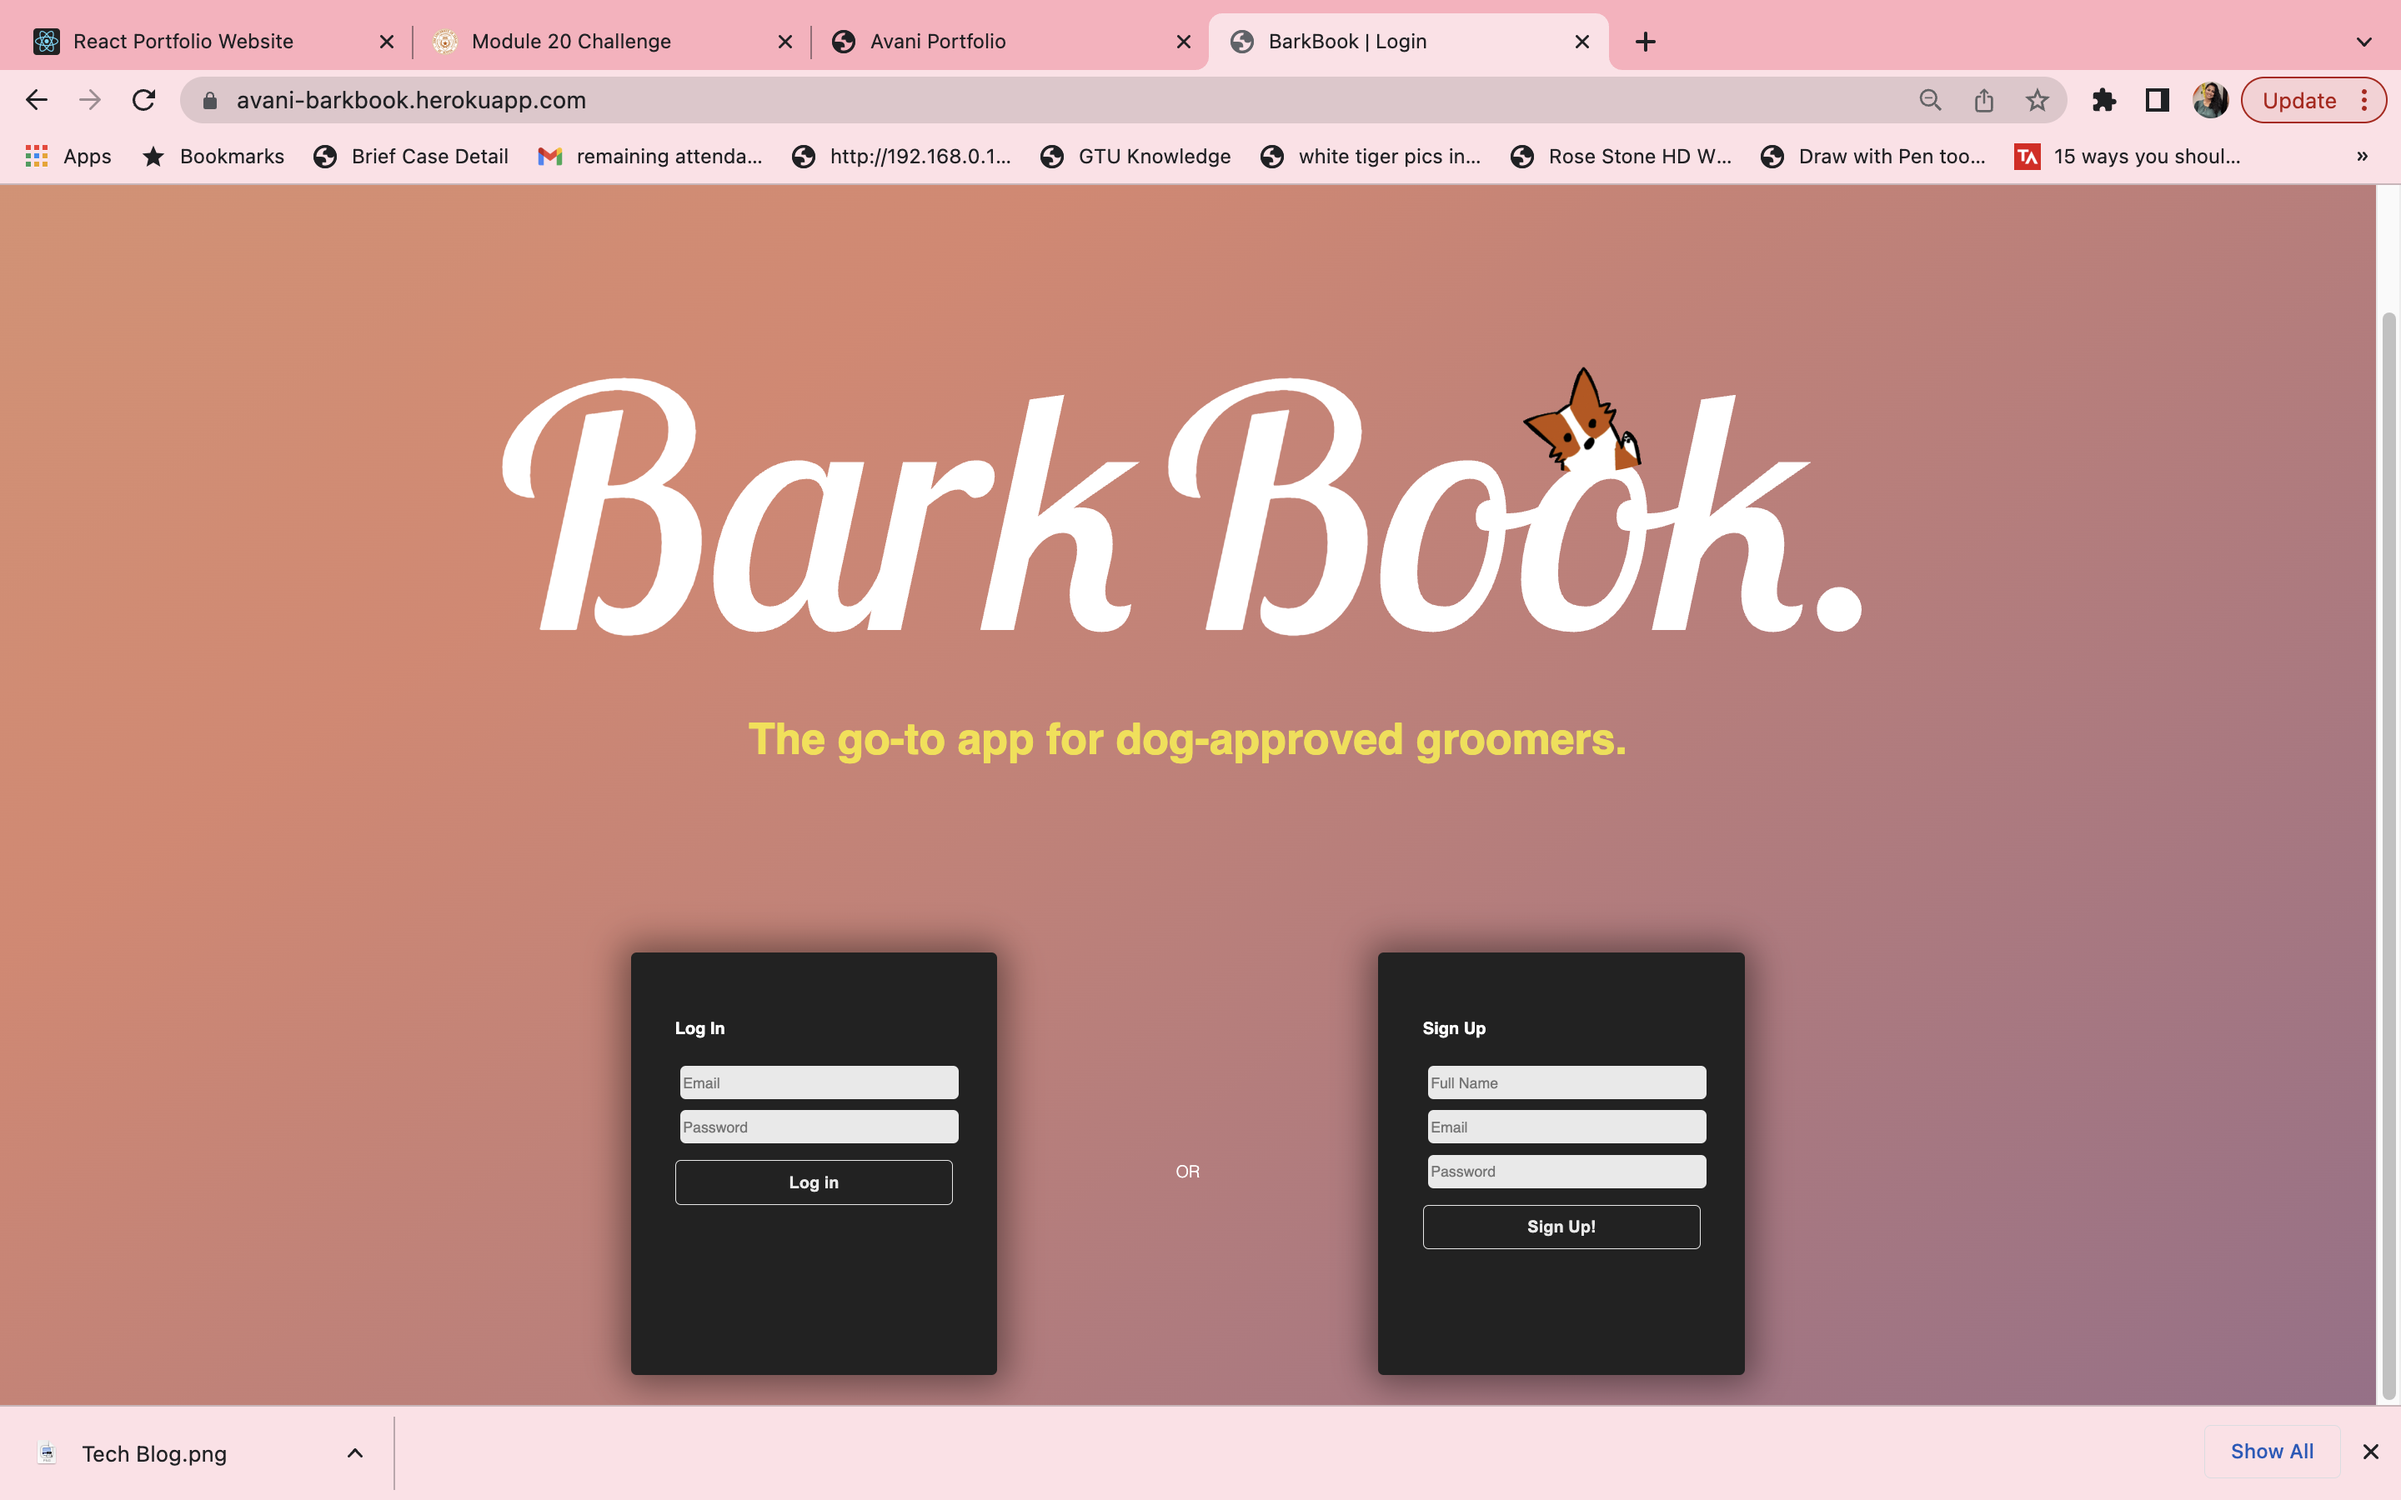
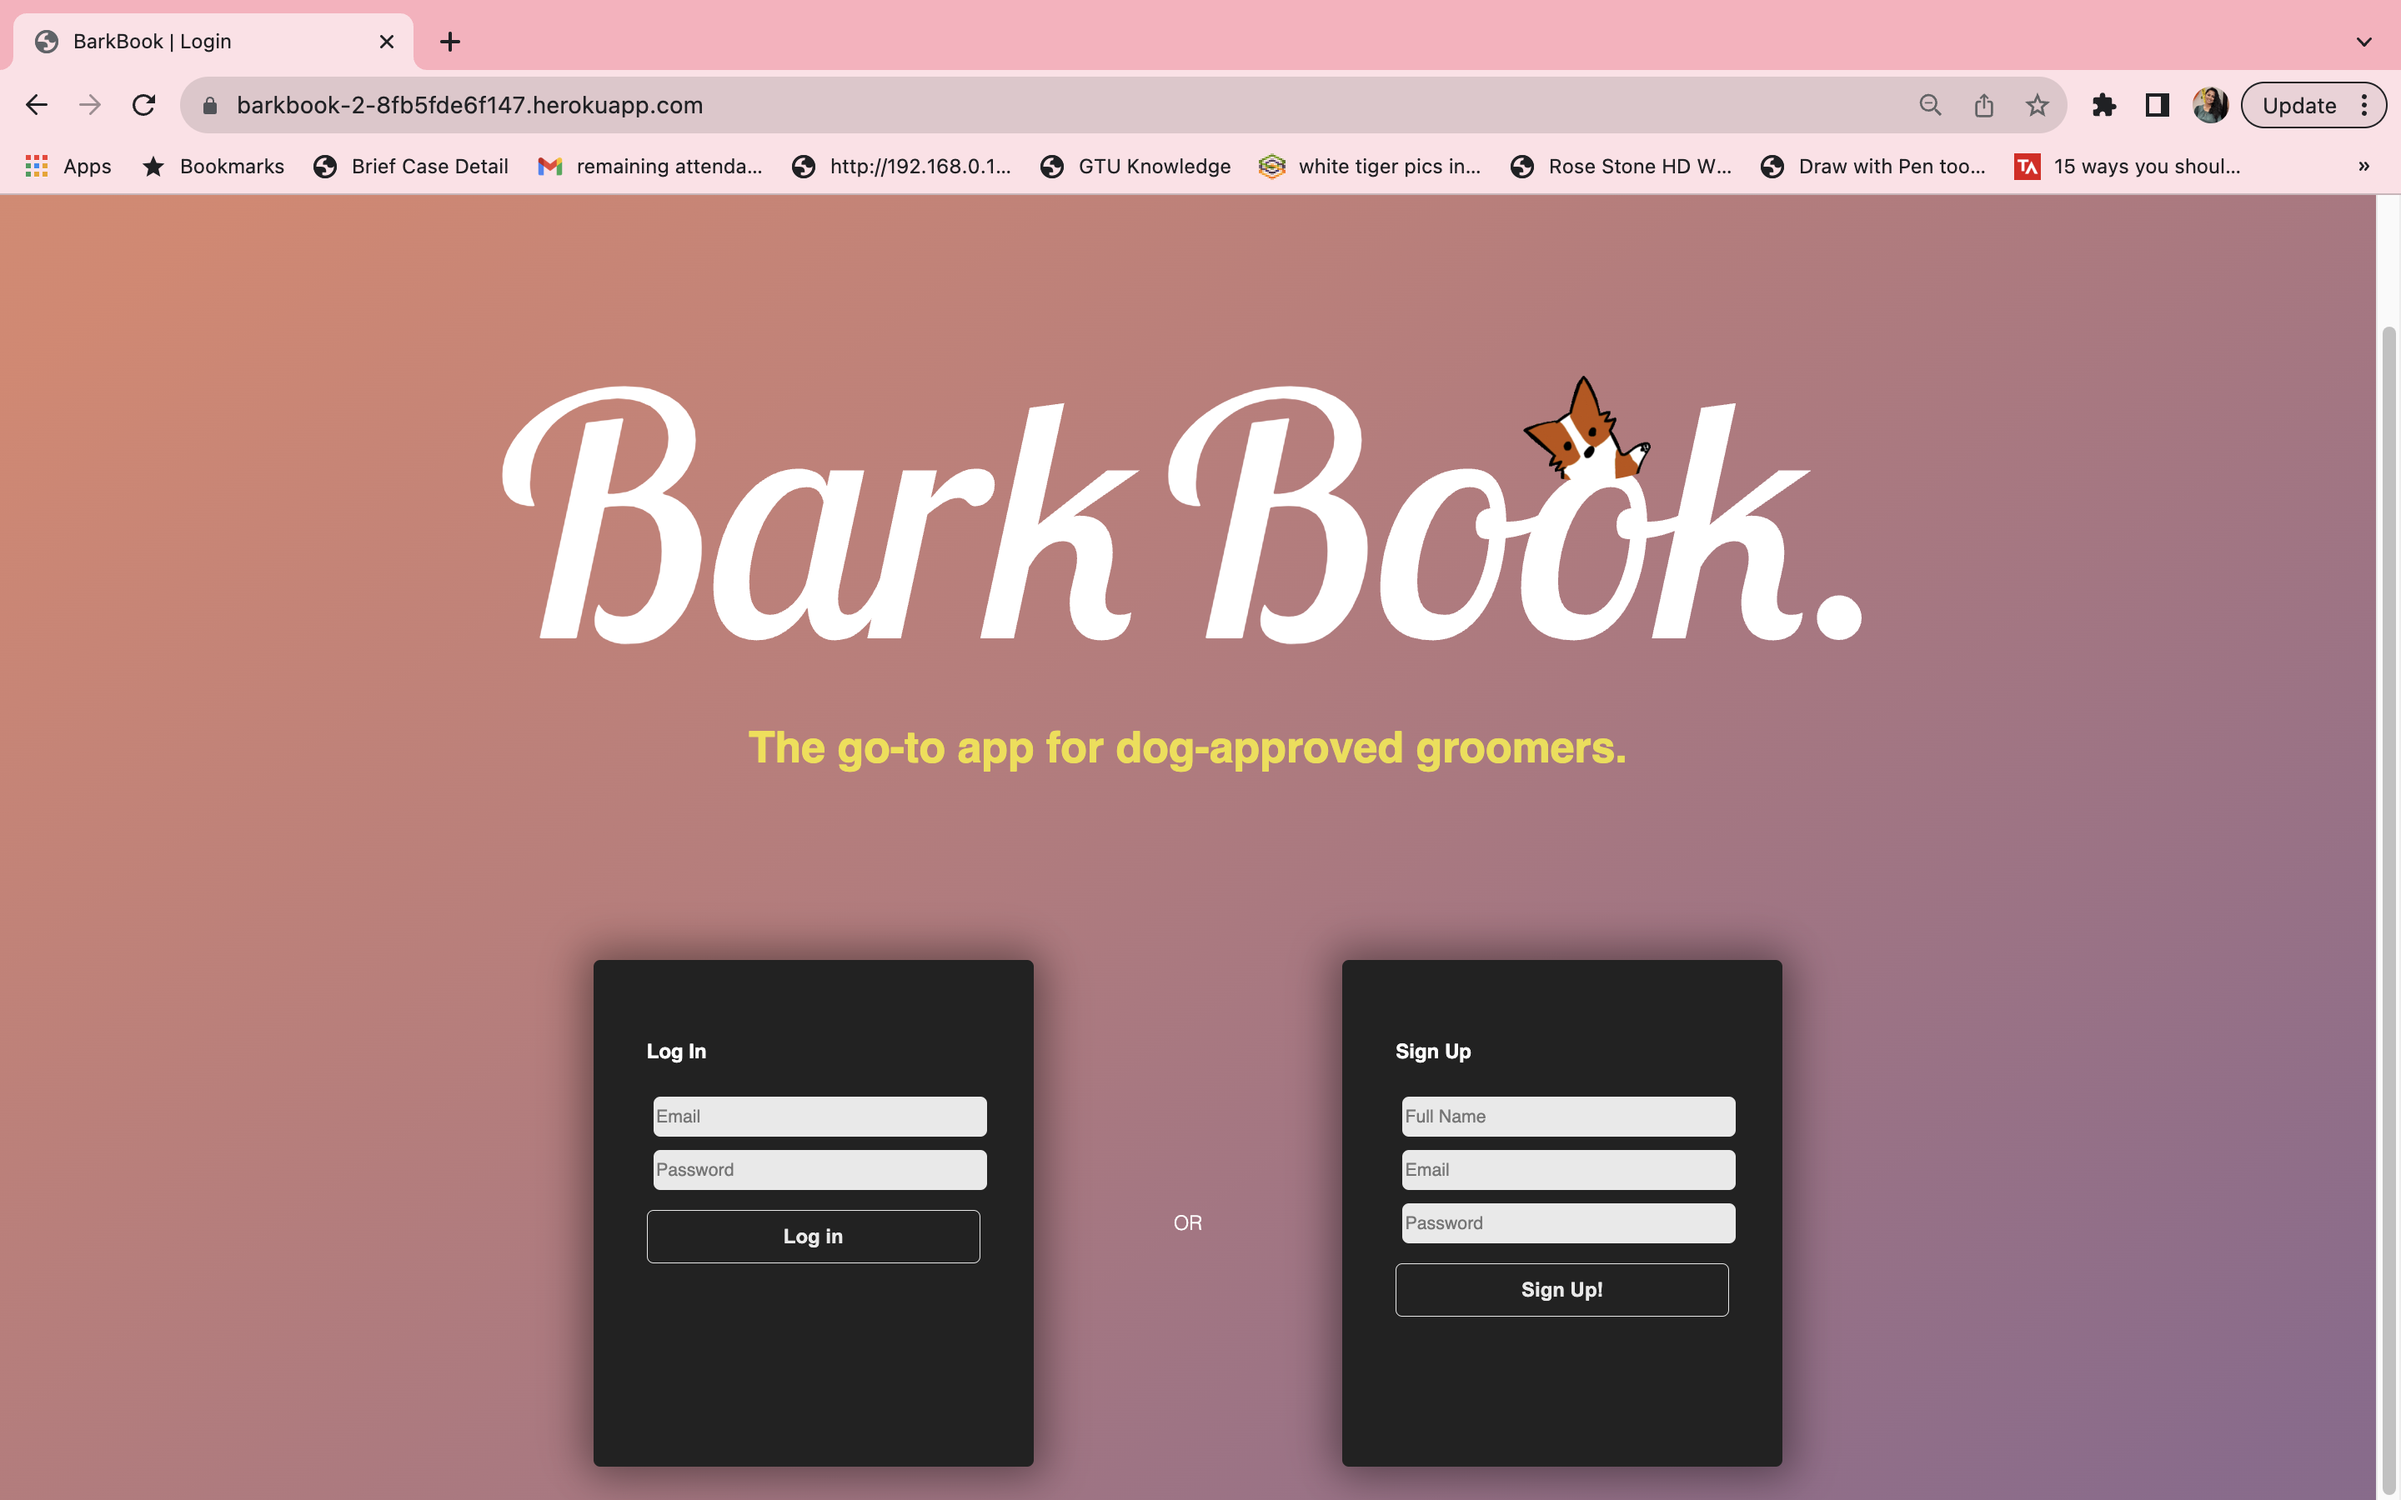
Added latest projects

diff --git a/src/components/Portfolio/index.js b/src/components/Portfolio/index.js
@@ -3,12 +3,11 @@ import React from "react";
 // import project index file
 import Project from "../Project/index";
 // import all images from Assets images
-import barkBook from "../../assets/images/BarkBook.png";
-import dayTime from "../../assets/images/dayTime.png";
-import weather from "../../assets/images/Weather.png";
+import BarkBook from "../../assets/images/BarkBook.png";
+import BookStoreGQL from "../../assets/images/BookStoreGQL";
 import Parkitivities from "../../assets/images/Parkitivities.png";
 import ReactPortfolio from "../../assets/images/AboutMe.png";
-import AvaniPortfolio from "../../assets/images/AvaniPortfolio.png";
+import Ecommerceshop from "../../assets/images/Ecommerceshop.png";
 import DreamLand from "../../assets/images/DreamLand.png";
 
 //  Created seed for projects in data array
@@ -19,28 +18,29 @@ const data = [
     image: DreamLand,
     github: "https://github.com/avanijadeja/DreamLand-WonderLand",
     deploy: "https://arcane-spire-25027-6f1b8d854313.herokuapp.com/",
-    description: "Dreamland wonderland is e-commerce website for organic Pajamas designed for Baby, kids and adults.",
-    topics: "MERN State Redux",
+    description:
+      "Dreamland wonderland is e-commerce website for organic Pajamas designed for Baby, kids and adults.",
+    topics: "MERN,State,Redux",
   },
   {
     id: 2,
-    name: "Work Day Scheduler",
-    image: dayTime,
-    github: "https://github.com/avanijadeja/work-day-scheduler",
-    deploy: "https://avanijadeja.github.io/work-day-scheduler/",
+    name: "Bark Book",
+    image: BarkBook,
+    github: "https://github.com/avanijadeja/BarkBook",
+    deploy: "https://barkbook-2-8fb5fde6f147.herokuapp.com/",
     description:
-      "Work Day Scheduler is a Calendar application that allows a user to save events for each hour of the day.",
-    topics: "Javascript Bootstrap",
+      "BarkBook is a application in which user can see all groomers and add comments on groomer about their pet's service.",
+    topics: "Express,Sequelize",
   },
   {
     id: 3,
-    name: "Weather Dashboard",
-    image: weather,
-    github: "https://github.com/avanijadeja/weather-dashboard",
-    deploy: "https://avanijadeja.github.io/weather-dashboard/",
+    name: "BookStore GraphQL",
+    image: BookStoreGQL,
+    github: "https://github.com/avanijadeja/BookStoreGQL",
+    deploy: "https://frozen-mountain-60263-d07f2d628798.herokuapp.com/",
     description:
-      "weather dashboard website shows weather outlook for multiple cities.",
-    topics: "Javascript Bootstrap",
+      "Book Store GQL search for new books to read, keep a list of books to purchase and delete books from purchase list using graphQL.",
+    topics: "MongoDB,Graphql",
   },
   {
     id: 4,
@@ -54,12 +54,12 @@ const data = [
   },
   {
     id: 5,
-    name: "Portfolio",
-    image: AvaniPortfolio,
-    github: "https://github.com/avanijadeja/Avani_Portfolio",
-    deploy: "https://avanijadeja.github.io/Avani_Portfolio/",
-    description: "Avani's Portfolio",
-    topics: "Javascript Bootstrap",
+    name: "E-commerce-shop",
+    image: Ecommerceshop,
+    github: "https://github.com/avanijadeja/E-commerce-shop",
+    deploy: "https://scenic-death-valley-72867-8012c567f6fe.herokuapp.com/",
+    description: "e-commerce-shop uses Redux to manage global state.",
+    topics: "Redux,Mongodb,express,GraphQL",
   },
   {
     id: 6,
